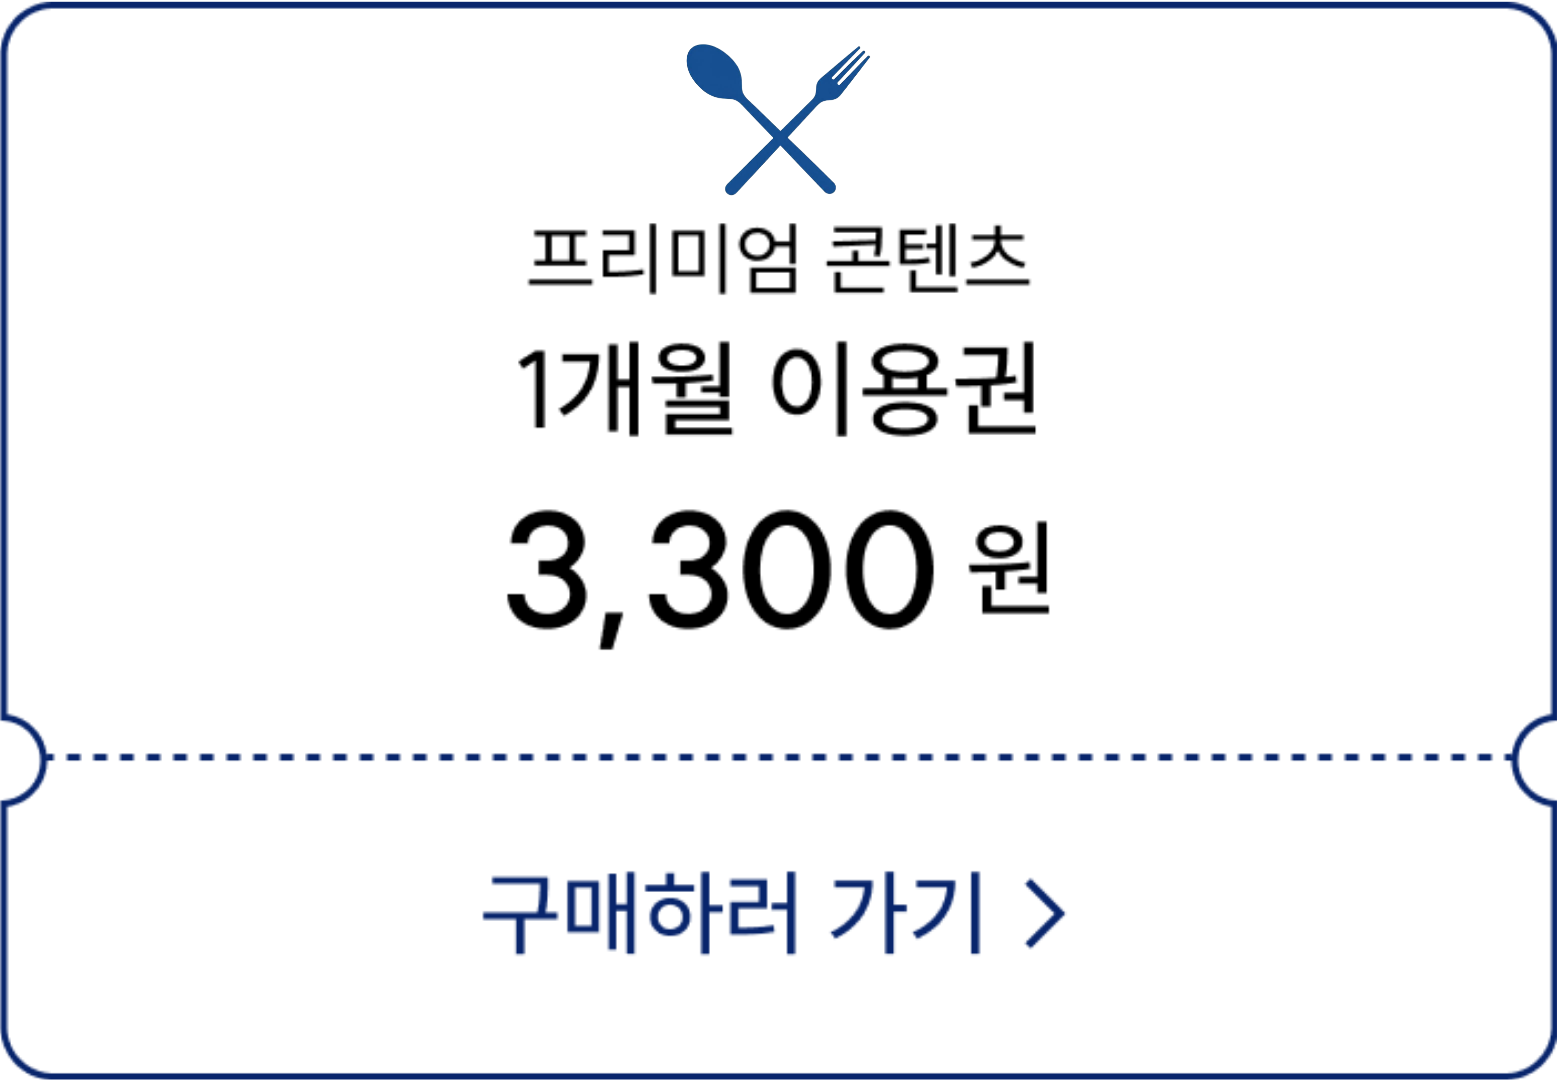
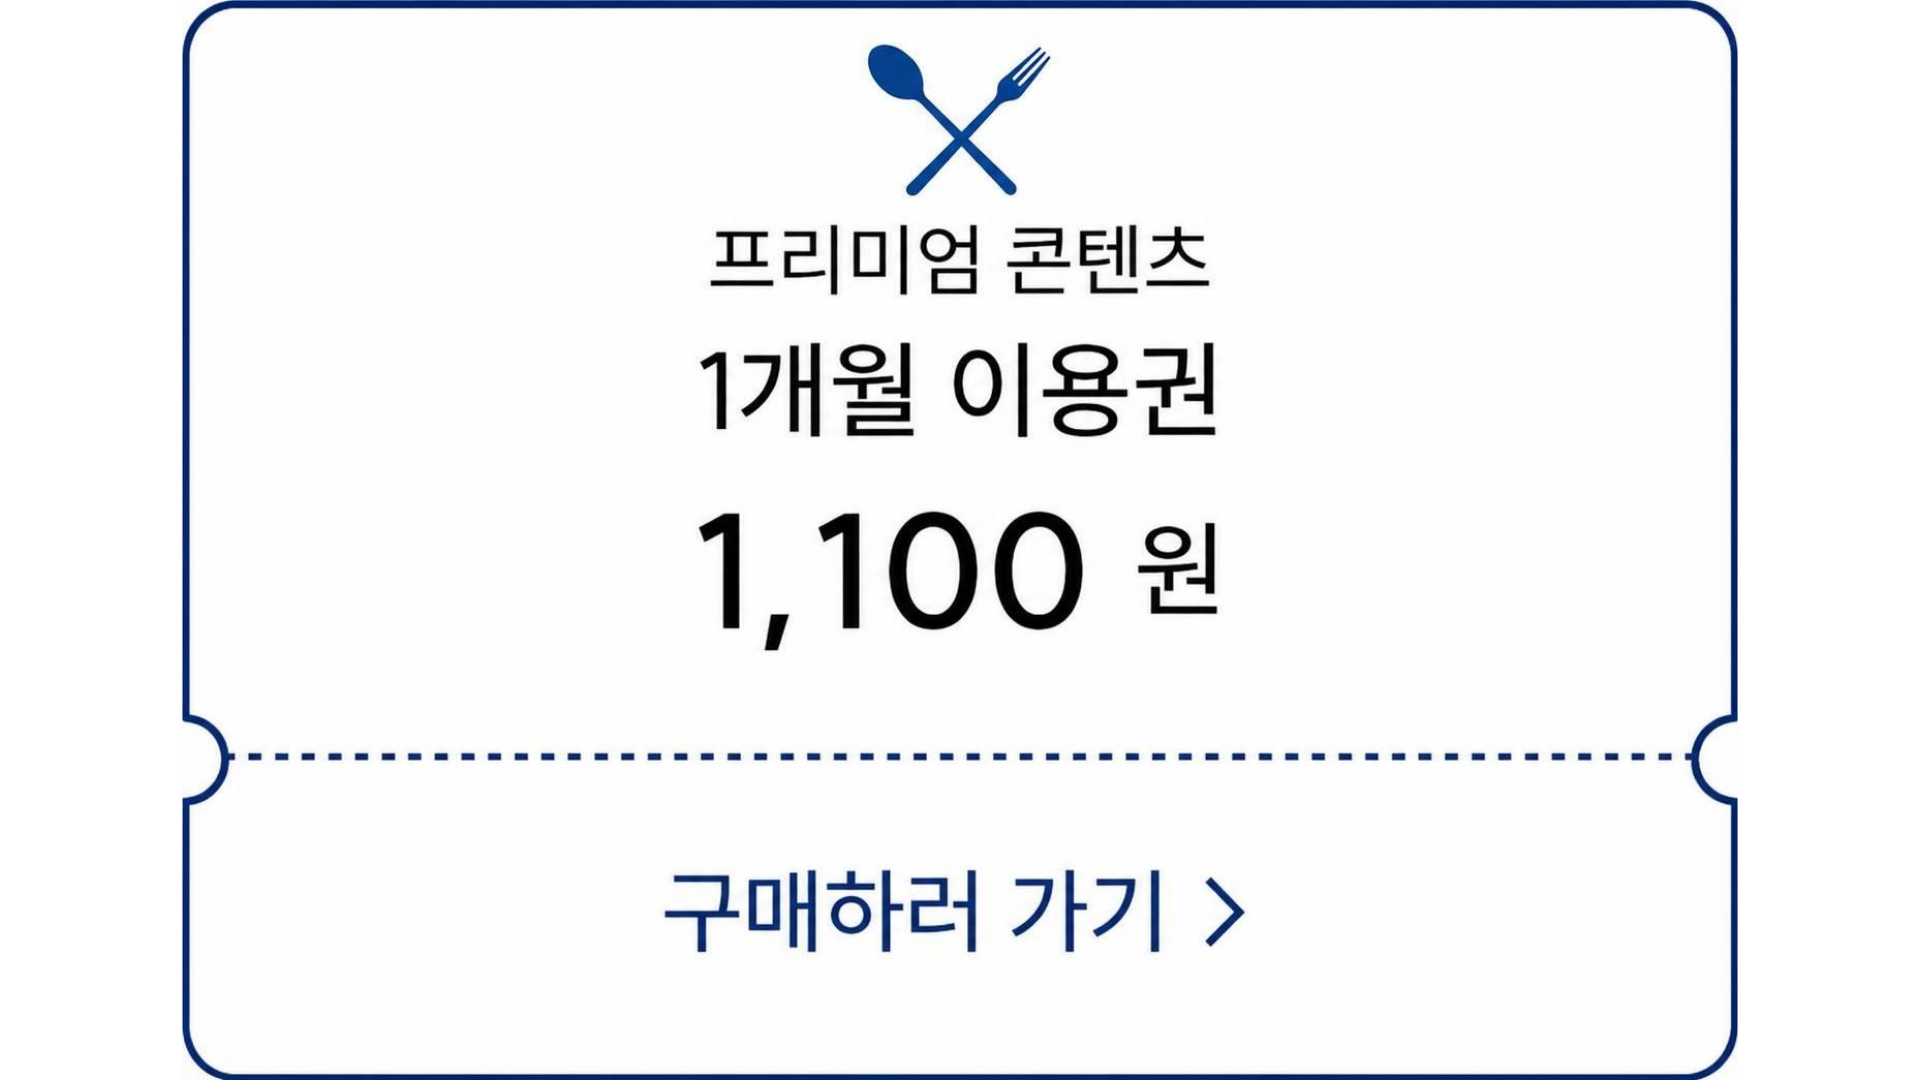
0918 11:26 이미지 변경

diff --git a/src/main/resources/static/js/main.js b/src/main/resources/static/js/main.js
@@ -23,6 +23,6 @@ function getCookie(name) {
 function goMainPopup(){
 	// hideCoupon cookie가 있는지 확인해서 없으면 팝업 띄우기
 	if (!getCookie('hideCoupon')) {
-		var pop = window.open("/guest/mainPopup","pop","width=450,height=656,top=100,left=100,scrollbars=no,resizable=no");
+		var pop = window.open("/guest/mainPopup","pop","width=380,height=723,top=100,left=100,scrollbars=no,resizable=no");
 	}
 }
